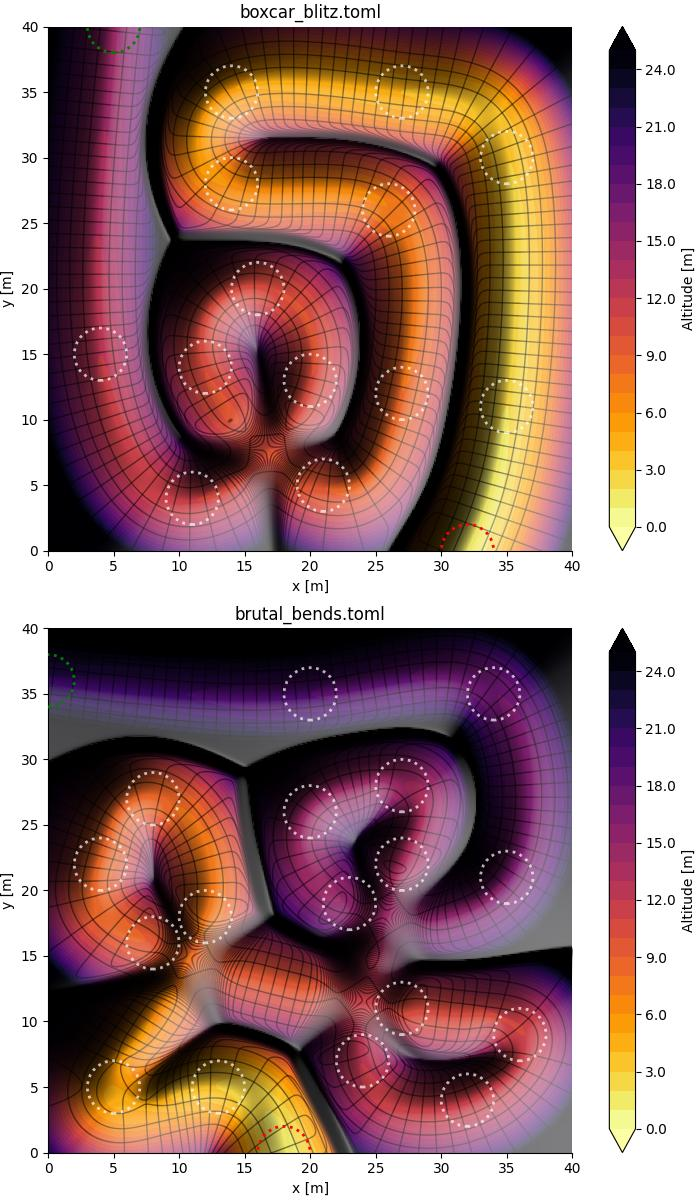
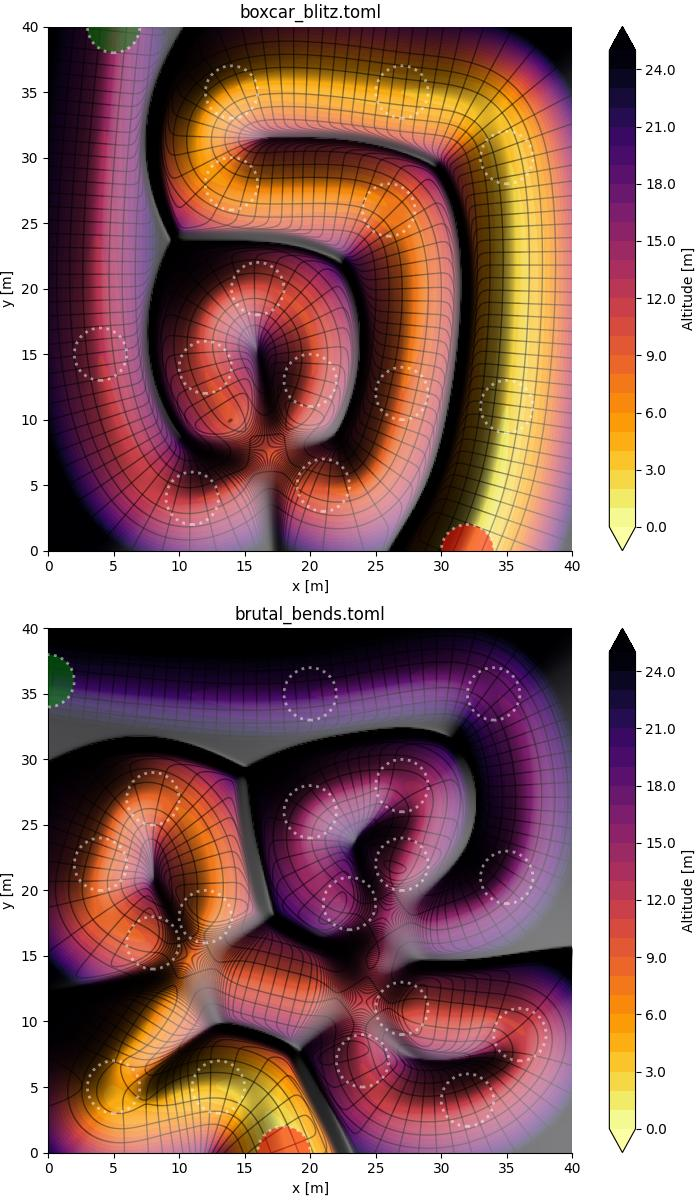
Improve clarity of start and finish

diff --git a/soapboxslide.py b/soapboxslide.py
@@ -400,22 +400,19 @@ class Slide:
             )
             ax.plot(self.waypoints[:, 0], self.waypoints[:, 1], "ko", ms=10, zorder=3)
         if add_targets:
-            colors = {0: "g", len(self.waypoints) - 1: "r"}
+            target_colors = {0: "g", len(self.waypoints) - 1: "r"}
             for i, waypoint in enumerate(self.waypoints):
-                color = colors.get(i, "w")
-                alpha = 0.7 if color == "w" else 1.0
-                ax.add_patch(
-                    plt.Circle(
-                        waypoint,
-                        self.target_radius,
-                        color="none",
-                        ec=color,
-                        lw=2,
-                        ls=":",
-                        zorder=4,
-                        alpha=alpha,
-                    )
+                circle = plt.Circle(
+                    waypoint,
+                    self.target_radius,
+                    color=target_colors.get(i, "none"),
+                    ec="w",
+                    lw=2,
+                    ls=":",
+                    zorder=4,
+                    alpha=0.5,
                 )
+                ax.add_patch(circle)
         ax.set_xlim(0, self.width)
         ax.set_ylim(0, self.height)
         ax.set_xlabel("x [m]")

diff --git a/README.md b/README.md
@@ -21,6 +21,9 @@ and visualizes the slides [`boxcar_blitz.toml`](boxcar_blitz.toml) and [`brutal_
 
 Your eyes may need some time to adapt to the correct depth perception: black ridges are high-altitude separations between the colored valleys.
 
+Note that the starting point and the finish are denoted as green and red circles respectively.
+All other circles are waypoints that must be reached on the way down.
+
 ## Concept
 
 The idea is for students to use the surface implemented in `soapboxslide` to simulate the dynamics of a particle (or a connected set of particles) sliding down.

diff --git a/CHANGELOG.md b/CHANGELOG.md
@@ -8,6 +8,11 @@ and this project adheres to [Effort-based Versioning](https://jacobtomlinson.dev
 
 (no changes yet)
 
+### Changed
+
+- Improved README.
+- Improved clarity of first and last target.
+
 ## [1.0.0] - 2025-10-11
 
 Initial release, just to get things started.
